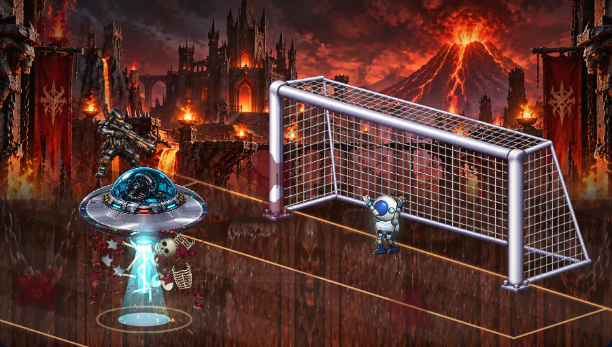
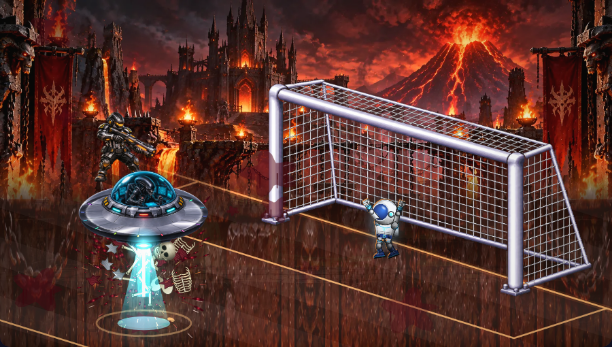
Kombat Penales: ovni opaco y render final de alta calidad

Changed region(s): [[0.4036, 0.2017, 0.9624, 0.8646], [0.1242, 0.317, 0.3415, 0.9798]]

diff --git a/src/features/games/kombatPenUfo.ts b/src/features/games/kombatPenUfo.ts
@@ -13,6 +13,18 @@ export function ufoSequence(t: number) {
   return { enter: smooth(t / 1.15), beam: t < 1.55 || t > FINAL_SHOT_AT + 0.65 ? 0 : Math.min(smooth((t - 1.55) / 0.2), 1 - smooth((t - FINAL_SHOT_AT - 0.25) / 0.4)), leave: smooth((t - (FINAL_END_AT - 1.1)) / 1.1) };
 }
 
+// La silueta es continua en cada fila: nunca se perfora el interior oscuro.
+export function maskUfoSilhouette(data: Uint8ClampedArray, width: number, height: number) {
+  for (let y = 0; y < height; y++) {
+    let left = width, right = -1;
+    for (let x = 0; x < width; x++) {
+      const p = (y * width + x) * 4;
+      if (Math.max(data[p], data[p + 1], data[p + 2]) > 28) { left = Math.min(left, x); right = x; }
+    }
+    for (let x = 0; x < width; x++) data[(y * width + x) * 4 + 3] = x >= left && x <= right ? 255 : 0;
+  }
+}
+
 let image: HTMLImageElement | null = null;
 let sprite: HTMLCanvasElement | null = null;
 let platter: HTMLCanvasElement | null = null;
@@ -24,23 +36,9 @@ export function preloadPenUfo() {
     const canvas = document.createElement('canvas'); canvas.width = 1536; canvas.height = 1024;
     const c = canvas.getContext('2d'); if (!c || !image) return;
     c.drawImage(image, 0, 0);
-    // El PNG original tiene fondo negro. Sólo se vuelve transparente el negro conectado
-    // al borde: los negros del alien, la cabina y el casco metálico se conservan.
-    const pixels = c.getImageData(0, 0, canvas.width, canvas.height), data = pixels.data;
-    const seen = new Uint8Array(canvas.width * canvas.height), queue = new Int32Array(seen.length);
-    let head = 0, tail = 0;
-    const visit = (p: number) => {
-      if (seen[p]) return; seen[p] = 1;
-      const j = p * 4; if (Math.max(data[j], data[j + 1], data[j + 2]) > 28) return;
-      queue[tail++] = p;
-    };
-    for (let x = 0; x < canvas.width; x++) { visit(x); visit((canvas.height - 1) * canvas.width + x); }
-    for (let y = 0; y < canvas.height; y++) { visit(y * canvas.width); visit(y * canvas.width + canvas.width - 1); }
-    while (head < tail) {
-      const p = queue[head++], x = p % canvas.width, y = Math.floor(p / canvas.width); data[p * 4 + 3] = 0;
-      if (x) visit(p - 1); if (x < canvas.width - 1) visit(p + 1);
-      if (y) visit(p - canvas.width); if (y < canvas.height - 1) visit(p + canvas.width);
-    }
+    // Recortar por el contorno exterior conserva opacos todos los negros del casco.
+    const pixels = c.getImageData(0, 0, canvas.width, canvas.height);
+    maskUfoSilhouette(pixels.data, canvas.width, canvas.height);
     c.putImageData(pixels, 0, 0); sprite = canvas;
     // Textura del plato tomada de su mitad frontal, sin arrastrar al piloto al girar.
     platter = document.createElement('canvas'); platter.width = canvas.width; platter.height = canvas.height;
@@ -83,7 +81,7 @@ export function drawPenUfo(ctx: CanvasRenderingContext2D, t: number, target: { x
   const x = target.x + (1 - seq.enter) * 650 + seq.leave * 500;
   const y = target.y - target.h * 2.15 - (1 - seq.enter) * 650 - seq.leave * 750 + Math.sin(t * 3.5) * 9;
   const nozzleY = y + (870 - 512) * scale, hitY = target.y - target.h * 0.5;
-  ctx.save(); ctx.globalAlpha = 1 - seq.leave;
+  ctx.save(); ctx.globalAlpha = 1; ctx.globalCompositeOperation = 'source-over'; ctx.imageSmoothingEnabled = true; ctx.imageSmoothingQuality = 'high';
   if (seq.beam > 0) {
     ctx.save(); ctx.globalAlpha *= seq.beam; ctx.globalCompositeOperation = 'lighter';
     const beam = ctx.createLinearGradient(x, nozzleY, target.x, target.y); beam.addColorStop(0, 'rgba(135,255,255,0.95)'); beam.addColorStop(0.5, 'rgba(30,221,255,0.5)'); beam.addColorStop(1, 'rgba(37,222,255,0.08)');

diff --git a/tests/kombat-penales-deaths.spec.ts b/tests/kombat-penales-deaths.spec.ts
@@ -3,6 +3,31 @@ import { readFileSync } from 'node:fs';
 
 const project = JSON.parse(readFileSync(new URL('../package.json', import.meta.url), 'utf8'));
 
+test('el casco del ovni permanece opaco incluso al retirarse', async ({ page }) => {
+  const base = project.name === 'minijuegos' ? '/MiniJuegos/' : '/escritorio-personal/';
+  await page.goto(`${base}docs/kombat-penales-muertes-preview.html`);
+  await page.waitForFunction(() => 'penPreview' in window);
+  const alpha = await page.evaluate(async base => {
+    const url = `${base}src/features/games/kombatPenUfo.ts`;
+    const { drawPenUfo, ufoSequence } = await import(/* @vite-ignore */ url);
+    const image = new Image(); image.src = `${base}src/features/games/assets/penales/ovni.png`; await image.decode();
+    await new Promise(resolve => setTimeout(resolve, 100));
+    const canvas = document.createElement('canvas'); canvas.width = 1536; canvas.height = 1024;
+    const ctx = canvas.getContext('2d')!;
+    const result: number[] = [];
+    for (const t of [1.3, 4.6]) {
+      ctx.clearRect(0, 0, 1536, 1024);
+      const seq = ufoSequence(t), h = 1536 / 2.8;
+      const x = 768 - (1 - seq.enter) * 650 - seq.leave * 500;
+      const y = 512 + h * 2.15 + (1 - seq.enter) * 650 + seq.leave * 750 - Math.sin(t * 3.5) * 9;
+      drawPenUfo(ctx, t, { x, y, h });
+      for (const [px, py] of [[768, 760], [768, 800], [1100, 690]]) result.push(ctx.getImageData(px, py, 1, 1).data[3]);
+    }
+    return result;
+  }, base);
+  expect(alpha).toEqual(Array(6).fill(255));
+});
+
 test('las siete muertes se dibujan para ambos roles y todos los luchadores', async ({ page }) => {
   test.setTimeout(240_000);
   const errors: string[] = [];

diff --git a/src/features/games/KombatPenaltiesGame.tsx b/src/features/games/KombatPenaltiesGame.tsx
@@ -256,7 +256,8 @@ export function KombatPenalties() {
     const el = stageRef.current, canvas = canvasRef.current, m = matchRef.current;
     if (!el || !canvas || !m) return;
     const touch = !!window.matchMedia?.('(pointer: coarse)').matches;
-    const k = Math.min(pixelRatio(touch ? 1.5 : 2), (touch ? 1280 : 1920) / Math.max(1, el.clientWidth), (touch ? 760 : 1100) / Math.max(1, el.clientHeight)) * QUALITY[quality.current], w = Math.round(el.clientWidth * k), h = Math.round(el.clientHeight * k);
+    const finale = m.phase === 'execution';
+    const k = finale ? Math.min(pixelRatio(2), 2560 / Math.max(1, el.clientWidth), 1500 / Math.max(1, el.clientHeight)) : Math.min(pixelRatio(touch ? 1.5 : 2), (touch ? 1280 : 1920) / Math.max(1, el.clientWidth), (touch ? 760 : 1100) / Math.max(1, el.clientHeight)) * QUALITY[quality.current], w = Math.round(el.clientWidth * k), h = Math.round(el.clientHeight * k);
     if (canvas.width !== w || canvas.height !== h) { canvas.width = w; canvas.height = h; }
     const low = touch || quality.current > 0; setLowFx(low); setNoGrain(low);
     const ctx = canvas.getContext('2d'); if (!ctx) return;

diff --git a/src/features/games/kombatPenUfo.test.ts b/src/features/games/kombatPenUfo.test.ts
@@ -1,8 +1,15 @@
 import { describe, expect, it } from 'vitest';
 import { FINAL_END_AT, FINAL_SHOT_AT, newPenalties, stepPenalties, takePenEvents } from './kombatPenalties';
-import { ufoLights, ufoSequence } from './kombatPenUfo';
+import { maskUfoSilhouette, ufoLights, ufoSequence } from './kombatPenUfo';
 
 describe('ejecución del ovni', () => {
+  it('elimina el fondo sin volver transparente el negro interior del casco', () => {
+    const data = new Uint8ClampedArray(7 * 2 * 4);
+    for (const x of [1, 5]) { data[x * 4] = 120; data[x * 4 + 3] = 255; }
+    maskUfoSilhouette(data, 7, 2);
+    expect(Array.from({ length: 7 }, (_, x) => data[x * 4 + 3])).toEqual([0, 255, 255, 255, 255, 255, 0]);
+    expect(Array.from({ length: 7 }, (_, x) => data[(7 + x) * 4 + 3])).toEqual(Array(7).fill(0));
+  });
   it('las luces conservan color, separación y orden durante una vuelta completa', () => {
     const initial = ufoLights(0);
     for (const t of [0.4, 1.1, 3.8, 8]) {

diff --git a/docs/kombat-penales-ovni.md b/docs/kombat-penales-ovni.md
@@ -1,6 +1,8 @@
 # Ovni de Kombat Penales
 
-El PNG original del usuario se conserva sin modificaciones. El render elimina sólo el negro de fondo conectado al borde. La cabina permanece orientada hacia la cámara y el anillo metálico gira sobre su eje; dieciséis lámparas de ocho colores mantienen su identidad y su orden durante la vuelta.
+El PNG original de 1536 × 1024 se conserva sin modificaciones. El render recorta el contorno exterior por filas y mantiene opaco todo el interior, incluidos los negros del casco. El ovni se retira por movimiento sin desvanecerse. La cabina permanece orientada hacia la cámara y el anillo metálico gira sobre su eje; dieciséis lámparas de ocho colores mantienen su identidad y su orden durante la vuelta.
+
+Durante la ejecución se renderiza a la resolución del dispositivo, con límites de 2560 × 1500, sin la reducción adaptativa usada durante los penales. El reescalado del ovni usa interpolación de alta calidad.
 
 Al perder la tanda, el ovni entra desde arriba, carga el emisor y proyecta el haz celeste fluorescente. A los 2,25 segundos el perdedor explota en sangre y huesos con los sonidos de explosión existentes. El ovni se retira antes del resultado, a los 5,2 segundos. El árbitro conserva sus disparos en los penales individuales.
 
